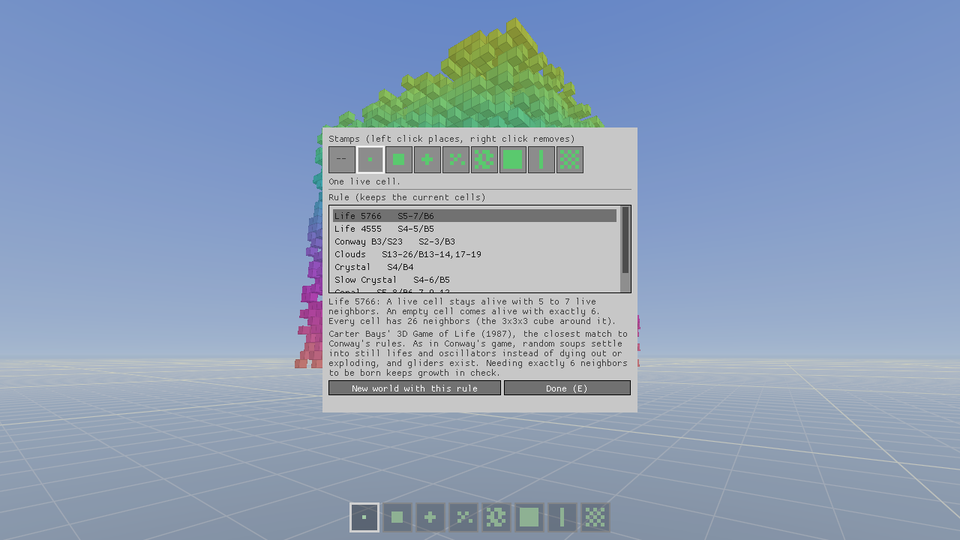
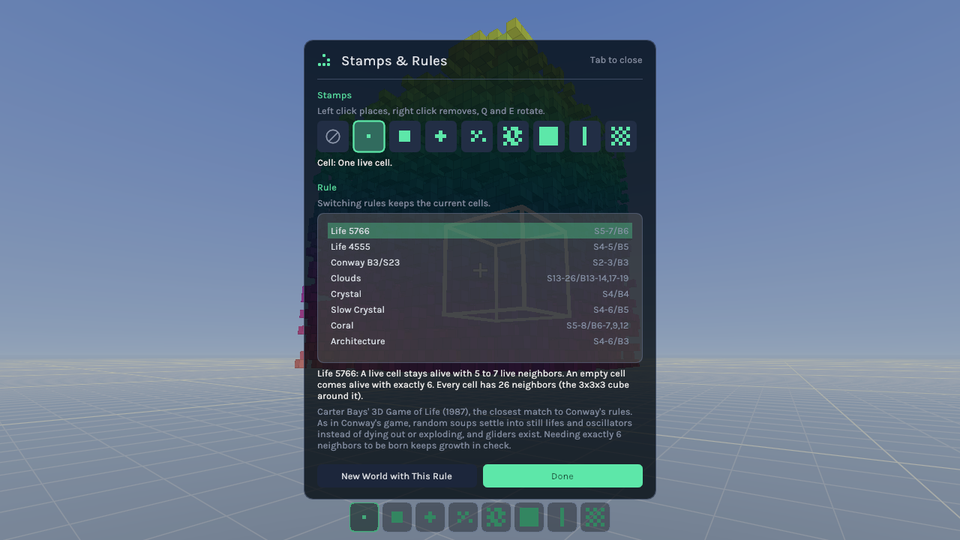
docs: refresh README for releases, tutorial, 3D glider and new menus
Replace the "build from source only" note with a table of the published
release packages and the update check, explain why Life 5766 contains
Conway's game with an in-game GIF of Bays' glider, add the tutorial and
recaptured menu screenshots, and update the code map. The capture script
now runs the game inside a headless gamescope so no windows open on the
desktop, and encodes the glider GIF with Pillow because ffmpeg's palette
filters dropped frames from it.

diff --git a/scripts/readme-media/capture_3d.py b/scripts/readme-media/capture_3d.py
@@ -3,7 +3,11 @@
 
 Drives the real game (build/prototype/gol3d) with its scripted-input flags: every
 frame is one short run that advances N generations, places the camera and saves a
-screenshot. Needs a display, a Vulkan driver, Pillow and ffmpeg.
+screenshot. Needs a Vulkan driver, Pillow and ffmpeg.
+
+When gamescope is installed, the script re-runs itself inside one headless
+gamescope session, so no game window opens on your desktop or takes focus. Set
+GOL3D_CAPTURE_VISIBLE=1 to use your own display instead.
 
     cmake -S prototype -B build/prototype -G Ninja -DCMAKE_BUILD_TYPE=Release
     cmake --build build/prototype
@@ -11,7 +15,9 @@ screenshot. Needs a display, a Vulkan driver, Pillow and ffmpeg.
 """
 
 import math
+import os
 import shutil
+import struct
 import subprocess
 import sys
 import tempfile
@@ -95,6 +101,37 @@ def encode_gif(frames_dir, pattern, out, fps, width, hold_last=0, colors=64):
             str(out),
         ],
         check=True,
+    )
+    print(f"wrote {out.relative_to(ROOT)} ({out.stat().st_size // 1024} KiB)")
+
+
+def encode_gif_pillow(paths, out, fps, width, hold_last=0, colors=64):
+    """GIF via Pillow with one shared palette. Used where ffmpeg's palette filters
+    drop frames (seen with the glider clip on ffmpeg 7)."""
+    frames = []
+    for path in paths:
+        image = Image.open(path).convert("RGB")
+        frames.append(
+            image.resize(
+                (width, round(image.height * width / image.width)), Image.LANCZOS
+            )
+        )
+    # Build the shared palette from a strip of sampled frames so every shade is covered.
+    samples = frames[:: max(1, len(frames) // 6)]
+    strip = Image.new("RGB", (frames[0].width, frames[0].height * len(samples)))
+    for i, frame in enumerate(samples):
+        strip.paste(frame, (0, i * frame.height))
+    palette = strip.quantize(colors=colors)
+    frames = [f.quantize(palette=palette, dither=Image.Dither.NONE) for f in frames]
+    durations = [1000 // fps] * len(frames)
+    durations[-1] += int(hold_last * 1000)
+    frames[0].save(
+        out,
+        save_all=True,
+        append_images=frames[1:],
+        duration=durations,
+        loop=0,
+        optimize=True,
     )
     print(f"wrote {out.relative_to(ROOT)} ({out.stat().st_size // 1024} KiB)")
 
@@ -223,6 +260,54 @@ def sandbox(tmp):
     )
 
 
+def write_save(path, rule_index, cells):
+    """A world in the game's save format ("L3D1"; see saveWorld in src/main_minimal.cpp)."""
+    header = struct.pack(
+        "<4sIQ3fffQ", b"L3D1", rule_index, 0, 0, 2, 0, 0, 0, len(cells)
+    )
+    path.write_bytes(header + b"".join(struct.pack("<3i", *c) for c in cells))
+
+
+def glider(tmp):
+    """Bays' Life 5766 glider: Conway's glider, two layers thick (include/Life3DPatterns.h)."""
+    conway = [(1, 0), (2, 1), (0, 2), (1, 2), (2, 2)]
+    world = tmp / "glider.life3d"
+    write_save(world, 0, [(x, y, z) for y in (0, 1) for x, z in conway])
+    frames = 25  # six periods: the glider moves (+1, 0, +1) every 4 generations
+    camera = orbit_camera((4.5, 0.5, 4.5), 6.5, 7, math.radians(-60))
+    for i in range(frames):
+        path = tmp / f"glider_{i:03d}.png"
+        shoot(
+            path,
+            (800, 450),
+            "--load",
+            world,
+            "--steps",
+            i,
+            "--fly",
+            "--slot",
+            0,
+            *camera,
+        )
+        image = crop_hotbar(Image.open(path))
+        label(image, f"Life 5766 glider   generation {i}")
+        image.save(path)
+    paths = [tmp / f"glider_{i:03d}.png" for i in range(frames)]
+    encode_gif_pillow(
+        paths, OUT / "glider-life5766.gif", 5, 560, hold_last=1, colors=192
+    )
+
+
+def tutorial():
+    """Tutorial lesson 2: every cell outlined by what happens to it next."""
+    path = OUT / "tutorial-survive-birth.png"
+    shoot(path, (1280, 720), "--empty", "--menu", "tutorial:2")
+    Image.open(path).convert("RGB").resize((960, 540), Image.LANCZOS).save(
+        path, optimize=True
+    )
+    print(f"wrote {path.relative_to(ROOT)}")
+
+
 def menus():
     for name in ("inventory", "pause", "settings"):
         path = OUT / f"menu-{name}.png"
@@ -233,13 +318,48 @@ def menus():
         print(f"wrote {path.relative_to(ROOT)}")
 
 
+def run_headless_if_possible():
+    """Re-exec this script inside a headless gamescope so game windows stay off-screen."""
+    if os.environ.get("GOL3D_CAPTURE_NESTED") or os.environ.get(
+        "GOL3D_CAPTURE_VISIBLE"
+    ):
+        return
+    gamescope = shutil.which("gamescope")
+    if not gamescope:
+        print("gamescope not found: game windows will open on this display")
+        return
+    env = dict(os.environ, GOL3D_CAPTURE_NESTED="1")
+    cmd = [
+        gamescope,
+        "--backend",
+        "headless",
+        "-W",
+        "1280",
+        "-H",
+        "720",
+        "--",
+        sys.executable,
+        __file__,
+        *sys.argv[1:],
+    ]
+    sys.exit(subprocess.run(cmd, env=env).returncode)
+
+
 def main():
     if not GAME.exists():
         sys.exit(f"Build the game first: {GAME} not found")
+    run_headless_if_possible()
     if not shutil.which("ffmpeg"):
         sys.exit("ffmpeg is required")
     OUT.mkdir(parents=True, exist_ok=True)
-    wanted = set(sys.argv[1:]) or {"hero", "rules", "sandbox", "menus"}
+    wanted = set(sys.argv[1:]) or {
+        "hero",
+        "rules",
+        "sandbox",
+        "glider",
+        "tutorial",
+        "menus",
+    }
     with tempfile.TemporaryDirectory() as tmpdir:
         tmp = Path(tmpdir)
         if "hero" in wanted:
@@ -248,6 +368,10 @@ def main():
             rules_grid(tmp)
         if "sandbox" in wanted:
             sandbox(tmp)
+        if "glider" in wanted:
+            glider(tmp)
+    if "tutorial" in wanted:
+        tutorial()
     if "menus" in wanted:
         menus()
 

diff --git a/README.md b/README.md
@@ -114,6 +114,21 @@ He found two rules that pass. Bays writes them as four numbers `E_lo E_hi F_lo F
 - **Life 5766** (S5-7/B6): survives with 5 to 7 neighbors, born with exactly 6. This is the game's default.
 - **Life 4555** (S4-5/B5): survives with 4 or 5, born with exactly 5. Livelier; soups churn longer.
 
+#### Conway's game hides inside Life 5766
+
+Take any 2D Life pattern and stack it two layers thick. A live cell with *n* live 2D neighbors now has 2*n* + 1
+live 3D neighbors (*n* in each layer, plus its twin), and an empty cell in the slab has 2*n*. Life 5766 keeps a cell
+alive when 2*n* + 1 is 5 or 7, so when *n* is 2 or 3, and gives birth when 2*n* = 6, so when *n* is 3. That is
+exactly Conway's S23/B3. As long as no cell just above or below the slab sees exactly 6 live neighbors, the slab
+runs Conway's game, and Bays' 5766 glider turns out to be Conway's glider, two blocks thick:
+
+| Conway's glider (2D) | Bays' Life 5766 glider (3D, in-game) |
+| -- | -- |
+| ![Conway's glider moving across a 2D grid](docs/media/conway-glider.gif) | ![The Life 5766 glider: Conway's glider two layers thick, crawling across the ground](docs/media/glider-life5766.gif) |
+
+Life 4555 has no such copy (its birth count, 5, is odd, and an empty cell in a two-layer slab always has an even
+count), so its glider is a different 10-cell shape. The in-game tutorial shows both.
+
 Same seed, same number of generations, four different rules:
 
 ![Four rules compared side by side: Life 5766, Life 4555, Conway's numbers and Coral](docs/media/rules-compared.gif)
@@ -174,12 +189,25 @@ Press the selected number again to empty your hand. Reach is 6 blocks. What you 
 block you're looking at, or on the ground, or in the air 4 blocks ahead, in that order. A white outline shows
 where it will go.
 
-| Stamps and rules (<kbd>Tab</kbd>) | Pause menu (<kbd>Esc</kbd>) |
+### Tutorial
+
+New to 3D Life? Press <kbd>Esc</kbd> and choose **Tutorial**. Eight short lessons each set up a small scene and
+explain what to watch for: the 26-cell neighborhood, which cells are born, survive or die, why Conway's numbers
+explode in 3D, still lifes, oscillators, both of Bays' gliders, and the rules that aren't Life-like at all. The
+world keeps running, so you can step with <kbd>N</kbd>, run with <kbd>G</kbd> and fly around each scene.
+
+![Tutorial lesson 2: every cell outlined by what happens to it next generation](docs/media/tutorial-survive-birth.png)
+
+### Menus
+
+| Pause menu (<kbd>Esc</kbd>) | Stamps and rules (<kbd>Tab</kbd>) |
 | -- | -- |
-| ![The Stamps and Rules screen, with each rule explained in words](docs/media/menu-inventory.png) | ![The pause menu](docs/media/menu-pause.png) |
+| ![The pause menu](docs/media/menu-pause.png) | ![The Stamps and Rules screen, with each rule explained in words](docs/media/menu-inventory.png) |
 
 The **Stamps & Rules** screen explains every rule in plain words. **Settings** has field of view, render distance,
-mouse sensitivity, GUI scale, simulation speed and HUD options; they're saved between sessions.
+mouse sensitivity, GUI scale, simulation speed, HUD and update options; they're saved between sessions.
+
+![The settings screen](docs/media/menu-settings.png)
 
 ---
 
@@ -241,18 +269,39 @@ Saves and screenshots go to `~/.local/share/gol3d` on Linux, `%APPDATA%\gol3d` o
 
 ## Download and build
 
-> **Prebuilt downloads:** the only release on the
-> [Releases page](https://github.com/CameronWeller/3DGameOfLife-Vulkan-Edition/releases) is an early alpha that
-> predates the playable game. Until a new one is published, build from source. It takes a couple of minutes, and
-> CMake fetches GLFW and GLM for you if they aren't installed.
+### Download a release
 
-### Requirements
+Every change to `main` publishes a new build on the
+**[latest release page](https://github.com/CameronWeller/3DGameOfLife-Vulkan-Edition/releases/latest)**.
+Pick the file for your system:
+
+| System | File | Notes |
+| -- | -- | -- |
+| Windows 10/11 | `gol3d-<version>-windows-x64.exe` (or `-arm64.exe`) | Installer; a `.zip` too |
+| Linux, any distribution | `gol3d-<version>-linux-x86_64.AppImage` (or `-aarch64`) | `chmod +x` it and run |
+| Debian / Ubuntu | `gol3d_<version>_amd64.deb` (or `_arm64.deb`) | `sudo apt install ./gol3d_*.deb` |
+| Fedora / openSUSE | `gol3d-<version>-1.x86_64.rpm` (or `.aarch64.rpm`) | |
+| Arch Linux | `gol3d-<version>-1-x86_64.pkg.tar.zst` | `sudo pacman -U gol3d-*.pkg.tar.zst` |
+| macOS 11+ | `gol3d-<version>-macos-universal.dmg` | Not notarized: right-click, **Open** the first time |
+
+`SHA256SUMS` on the same page lists every file's checksum. You need a GPU driver with Vulkan support (on macOS,
+MoltenVK is bundled).
+
+The game checks GitHub for a newer release when it starts; turn that off in **Settings**. The Windows installer
+and the AppImage can update themselves after verifying the download's SHA-256. Other packages open the release
+page so your package manager can install the update.
+
+### Build from source
+
+It takes a couple of minutes, and CMake fetches GLFW and GLM for you if they aren't installed.
+
+#### Requirements
 
 - A GPU and driver with **Vulkan 1.0** support
 - **CMake 3.20+**, **Ninja** (or Visual Studio), and a **C++20** compiler
 - **`glslc`** to compile shaders (from shaderc or the [Vulkan SDK](https://vulkan.lunarg.com/sdk/home))
 
-#### Linux (Ubuntu / Debian)
+##### Linux (Ubuntu / Debian)
 
 ```bash
 sudo apt install build-essential cmake ninja-build git glslc libvulkan-dev \
@@ -260,18 +309,18 @@ sudo apt install build-essential cmake ninja-build git glslc libvulkan-dev \
   libwayland-dev libxkbcommon-dev wayland-protocols
 ```
 
-#### Windows
+##### Windows
 
 Install Visual Studio 2022 (with "Desktop development with C++"), CMake and the
 [LunarG Vulkan SDK](https://vulkan.lunarg.com/sdk/home), which provides `glslc`. Run the commands below from a
 "x64 Native Tools" prompt so Ninja finds the compiler.
 
-#### macOS
+##### macOS
 
 Install the [Vulkan SDK](https://vulkan.lunarg.com/sdk/home) (it includes MoltenVK and `glslc`), then
 `brew install cmake ninja`. macOS runs through MoltenVK and is the least tested platform.
 
-### Clone, build, play
+#### Clone, build, play
 
 ```bash
 git clone https://github.com/CameronWeller/3DGameOfLife-Vulkan-Edition.git
@@ -283,7 +332,7 @@ cmake --build build/prototype
 
 On Windows the last line is `build\prototype\gol3d.exe`.
 
-### Useful command-line options
+#### Useful command-line options
 
 ```bash
 ./build/prototype/gol3d --rule 2          # start with Life 4555 (rules are numbered 1-8)
@@ -293,7 +342,7 @@ On Windows the last line is `build\prototype\gol3d.exe`.
 ./build/prototype/gol3d --help            # everything else
 ```
 
-### Make an installer or package
+#### Make an installer or package
 
 ```bash
 cpack --config build/prototype/CPackConfig.cmake -G "DEB;RPM;TGZ"   # Linux
@@ -326,7 +375,8 @@ flowchart LR
 - **Rules.** A rule is two 27-bit masks: bit *n* of the survive mask is set if a live cell with *n* neighbors
   survives, and likewise for birth. See [`include/Life3DRules.h`](include/Life3DRules.h).
 - **Rendering.** Live cells are drawn as instanced cubes with per-face shading and distance fog, over a sky
-  gradient and a block grid at y = 0. Hue drifts mostly with height, with a little per-block jitter so flat walls stay readable.
+  gradient and a block grid at y = 0. Hue drifts mostly with height, with a little per-block jitter so flat
+  walls stay readable.
 - **Budget.** 2048 chunks by default (`--chunks N`, up to 16000) and about 1M drawn blocks. The first time a world
   hits the limit, the game pauses and tells you.
 - **Correctness.** `gol3d --verify` runs soups on the GPU and checks every cell against a plain CPU reference
@@ -354,7 +404,7 @@ Contributions are welcome, from typo fixes to new rules to rendering work.
 ### Running the tests
 
 ```bash
-ctest --test-dir build/prototype            # CPU rule checks + GPU-vs-CPU check
+ctest --test-dir build/prototype            # rules, tutorial patterns, updater + GPU-vs-CPU check
 ctest --test-dir build/prototype -LE gpu    # CPU only (no GPU or display needed)
 ./build/prototype/gol3d --verify            # the GPU check on its own
 ```
@@ -364,9 +414,13 @@ ctest --test-dir build/prototype -LE gpu    # CPU only (no GPU or display needed
 | Path | What it is |
 | -- | -- |
 | [`prototype/`](prototype/) | CMake project for the playable game, packaging and tests |
-| [`src/main_minimal.cpp`](src/main_minimal.cpp) | The game: Vulkan setup, player, input, UI, chunk manager |
+| [`src/main_minimal.cpp`](src/main_minimal.cpp) | The game: Vulkan setup, player, input, menus, chunk manager |
+| [`src/tutorial/`](src/tutorial/) | Tutorial lessons and the lesson panel |
+| [`src/Updater.cpp`](src/Updater.cpp) | Release checks and self-update |
 | [`include/Life3DRules.h`](include/Life3DRules.h) | The rule list and the CPU reference simulation |
+| [`include/Life3DPatterns.h`](include/Life3DPatterns.h) | Known 3D patterns: still lifes, oscillators, gliders |
 | [`shaders/life3d_*`](shaders/) | Compute and render shaders |
+| [`packaging/`](packaging/), [`release.yml`](.github/workflows/release.yml) | Icons, installers, release pipeline |
 | [`docs/PROTOTYPE.md`](docs/PROTOTYPE.md) | Detailed game documentation |
 | [`scripts/readme-media/`](scripts/readme-media/) | Scripts that regenerate every image and GIF in this README |
 
@@ -375,7 +429,8 @@ ctest --test-dir build/prototype -LE gpu    # CPU only (no GPU or display needed
 - **Add a rule.** Append an entry to `lifeRules()` in `include/Life3DRules.h` (and bump the array size). Give it
   a name, survive and birth masks, a seed density and size, and a plain-English description. It then shows up in
   the <kbd>R</kbd> cycle and the Stamps & Rules screen automatically.
-- **Add a 3D glider stamp.** Bays' rules have gliders, but there is no stamp for one yet.
+- **Add glider stamps.** Both of Bays' gliders are in `include/Life3DPatterns.h` and the tutorial, but you can't
+  place one from the hotbar yet.
 - **Pattern files.** Import and export patterns in a documented text format.
 
 ### Regenerating the README media
@@ -385,7 +440,9 @@ python3 scripts/readme-media/make_2d_media.py   # 2D Conway GIFs and the neighbo
 python3 scripts/readme-media/capture_3d.py      # in-game GIFs and screenshots (needs the built game and ffmpeg)
 ```
 
-Keep each file under 1000 KB (the pre-commit large-file limit).
+When [gamescope](https://github.com/ValveSoftware/gamescope) is installed, `capture_3d.py` runs the game inside a
+headless gamescope session, so no windows open on your desktop. Keep each file under 1000 KB (the pre-commit
+large-file limit).
 
 ### Reporting bugs
 
